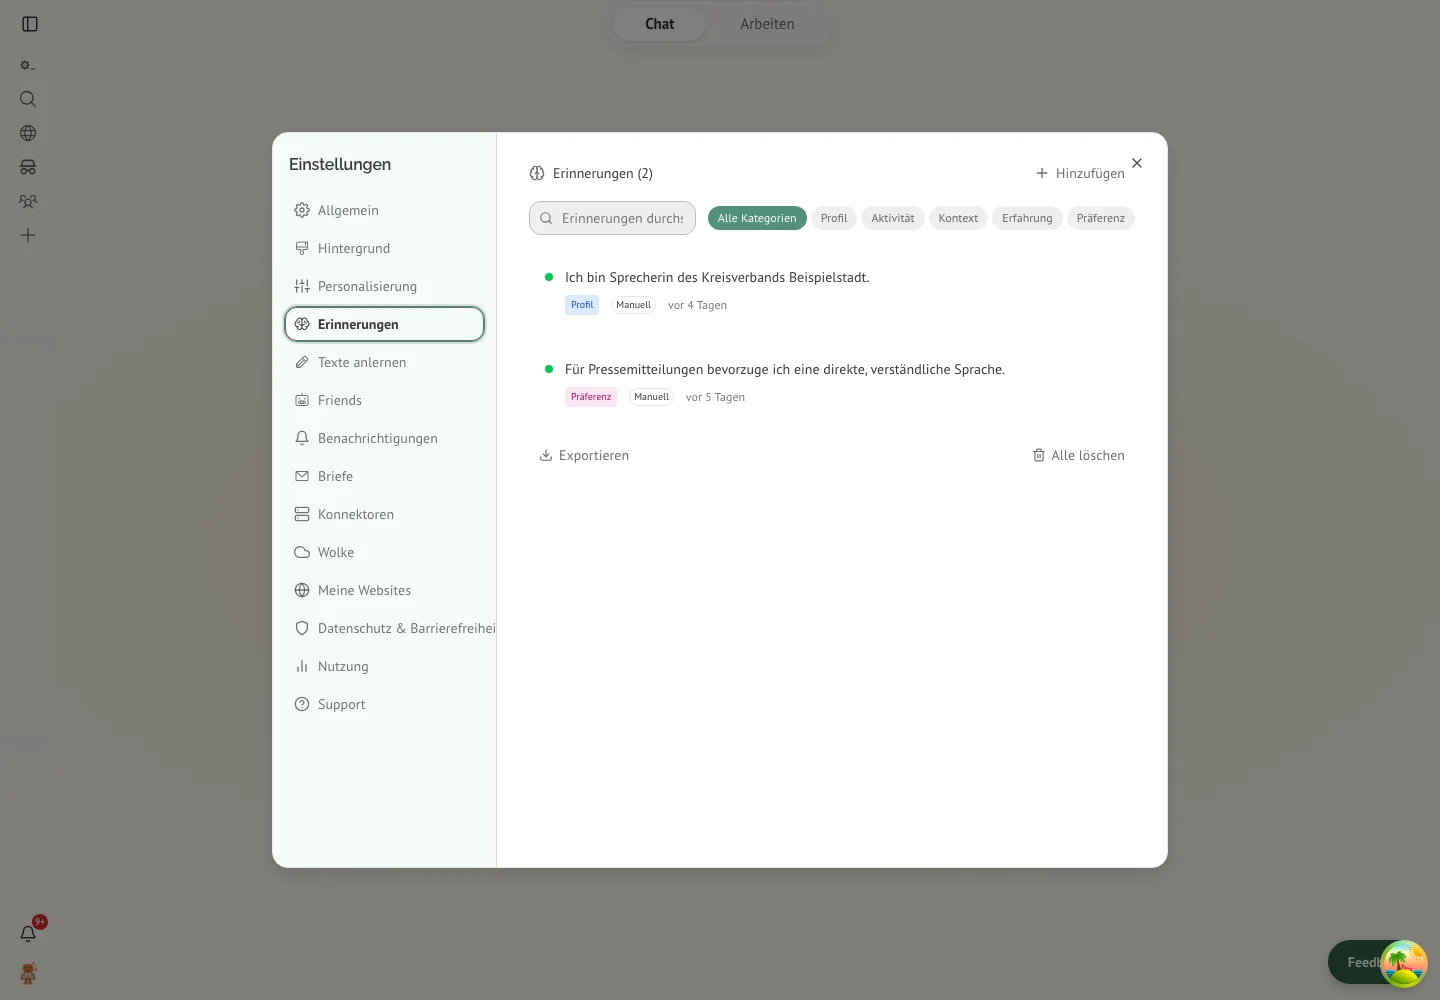
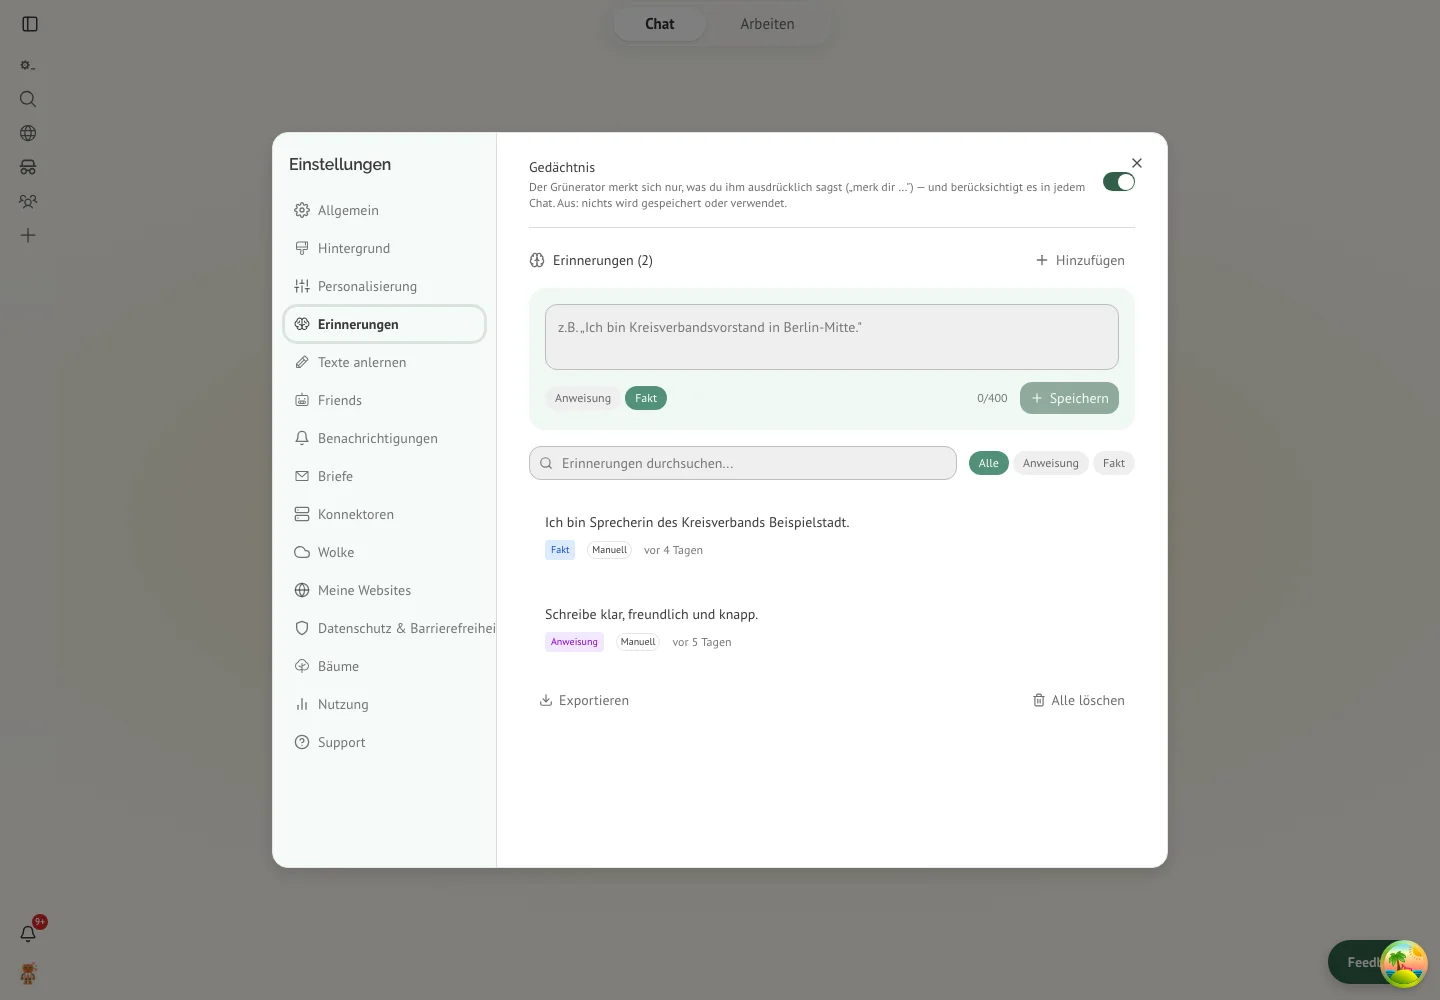
docs: align memory guide with current UI

diff --git a/apps/api/services/docs/docsIndex.generated.ts b/apps/api/services/docs/docsIndex.generated.ts
@@ -1853,7 +1853,7 @@ export const DOCS_SECTIONS: readonly DocSection[] = [
     "heading": "So geht's",
     "anchor": "#so-gehts",
     "category": "Guides",
-    "text": "Einstellungen öffnen. Klicke unten in der Seitenleiste auf dein Profilbild und wähle Einstellungen. Direkt dorthin führt auch /settings/erinnerungen. Erinnerungen auswählen. Klicke links auf Erinnerungen und dann oben rechts auf Hinzufügen. Hier siehst du alle gespeicherten Erinnerungen. Eine einzelne, nützliche Information eintragen. Schreibe einen Fakt oder eine dauerhafte Vorliebe in das Textfeld, zum Beispiel: Wähle bei Bedarf ein Thema wie Profil, Kontext oder Präferenz und klicke auf Speichern. Das Thema hilft dir später beim Filtern; für den Grünerator ist vor allem der Text entscheidend. Erinnerungen pflegen. Mit dem Stift auf einer Erinnerung kannst du sie berichtigen. Mit dem Papierkorb entfernst du sie einzeln. Über das Suchfeld und die Kategorien findest du Einträge schnell wieder; Exportieren lädt alle Erinnerungen als JSON-Datei herunter. „Ich bin im Kreisverband Beispielstadt und möchte kurze Pressemitteilungen\" speicherst du besser als zwei Erinnerungen. Dann kannst du eine davon ändern, ohne die andere anzufassen. Erinnerungen können auch aus Gesprächen entstehen. Schau deshalb gelegentlich in diesen Bereich, korrigiere Veraltetes und lösche, was der Grünerator…"
+    "text": "Einstellungen öffnen. Klicke unten in der Seitenleiste auf dein Profilbild und wähle Einstellungen. Direkt dorthin führt auch /settings/erinnerungen. Erinnerungen auswählen. Klicke links auf Erinnerungen. Lass den Schalter Gedächtnis eingeschaltet, damit der Grünerator gespeicherte Erinnerungen verwendet und neue anlegen kann. Klicke anschließend oben rechts auf Hinzufügen. Art wählen und Inhalt eintragen. Entscheide zuerst, wie der Grünerator die Erinnerung verwenden soll: Fakt wird genutzt, wenn er zu deiner Frage passt — etwa deine Funktion oder dein Ortsverband. Anweisung gilt bei jeder Antwort — etwa eine dauerhaft gewünschte Ansprache oder Schreibweise. Trage anschließend eine einzelne, kurze Aussage ein, zum Beispiel als Fakt: Klicke danach auf Speichern. Eine Erinnerung darf höchstens 400 Zeichen lang sein. Erinnerungen pflegen. Mit dem Stift auf einer Erinnerung kannst du ihren Text berichtigen. Mit dem Papierkorb entfernst du sie einzeln. Über das Suchfeld und die Filter Alle, Anweisung und Fakt findest du Einträge schnell wieder; Exportieren lädt alle Erinnerungen als JSON-Datei herunter. „Ich bin im Kreisverband Beispielstadt und möchte kurze Pressemitteilungen\"…"
   },
   {
     "url": "/docs/guides/einsteigerinnen/erinnerungen-erstellen",
